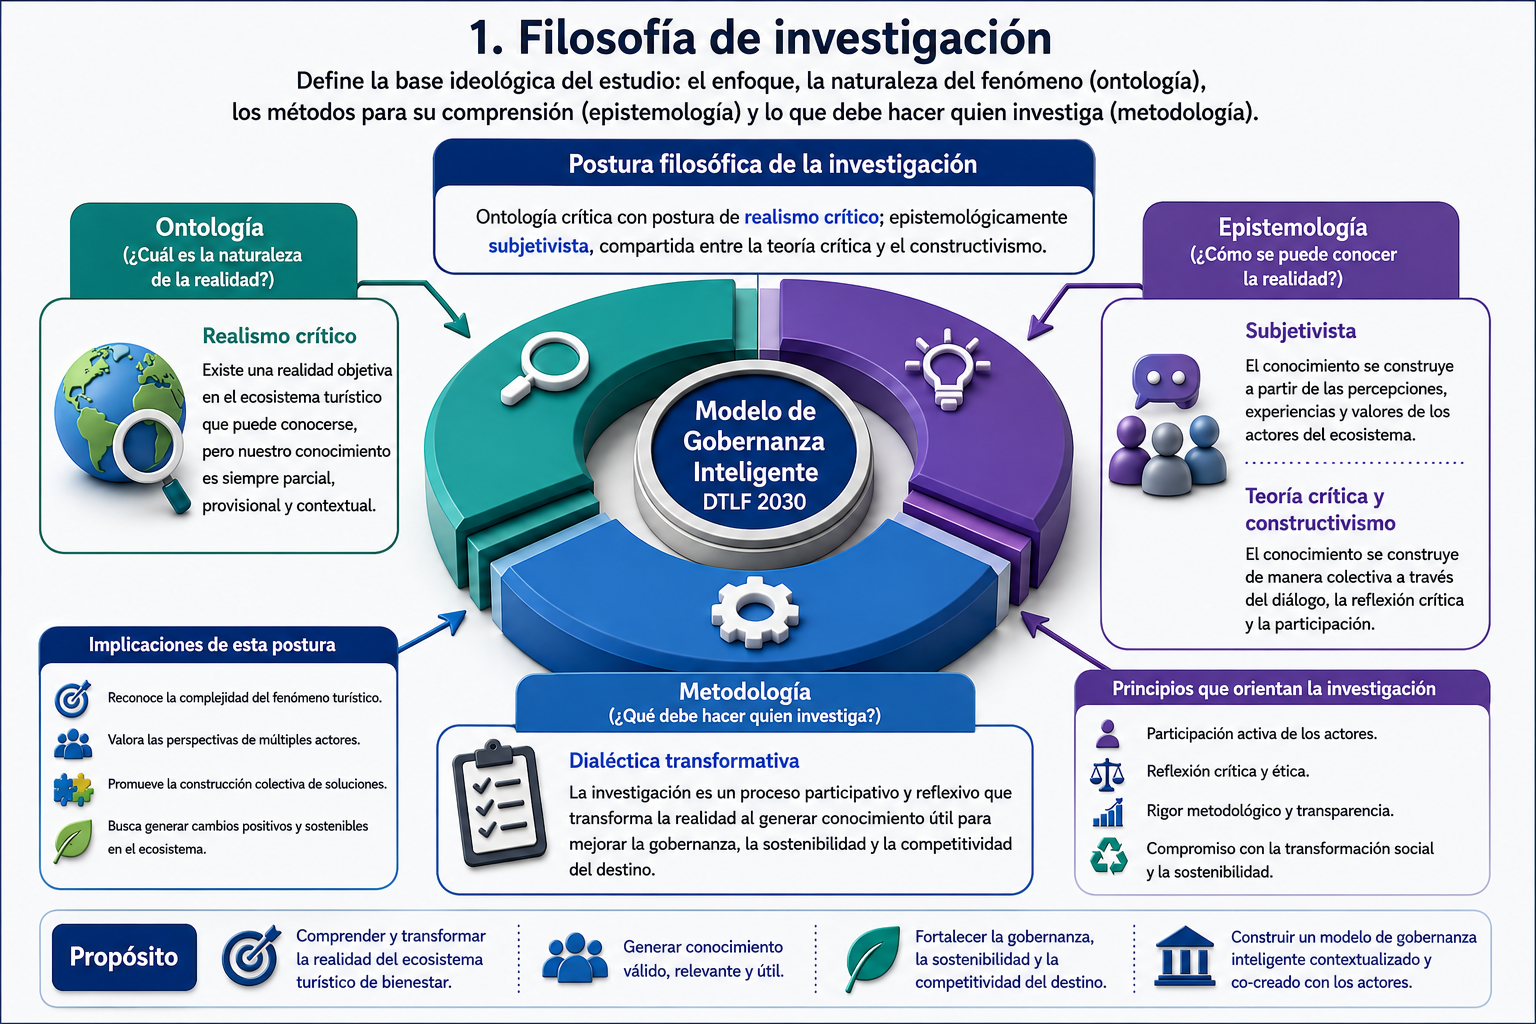
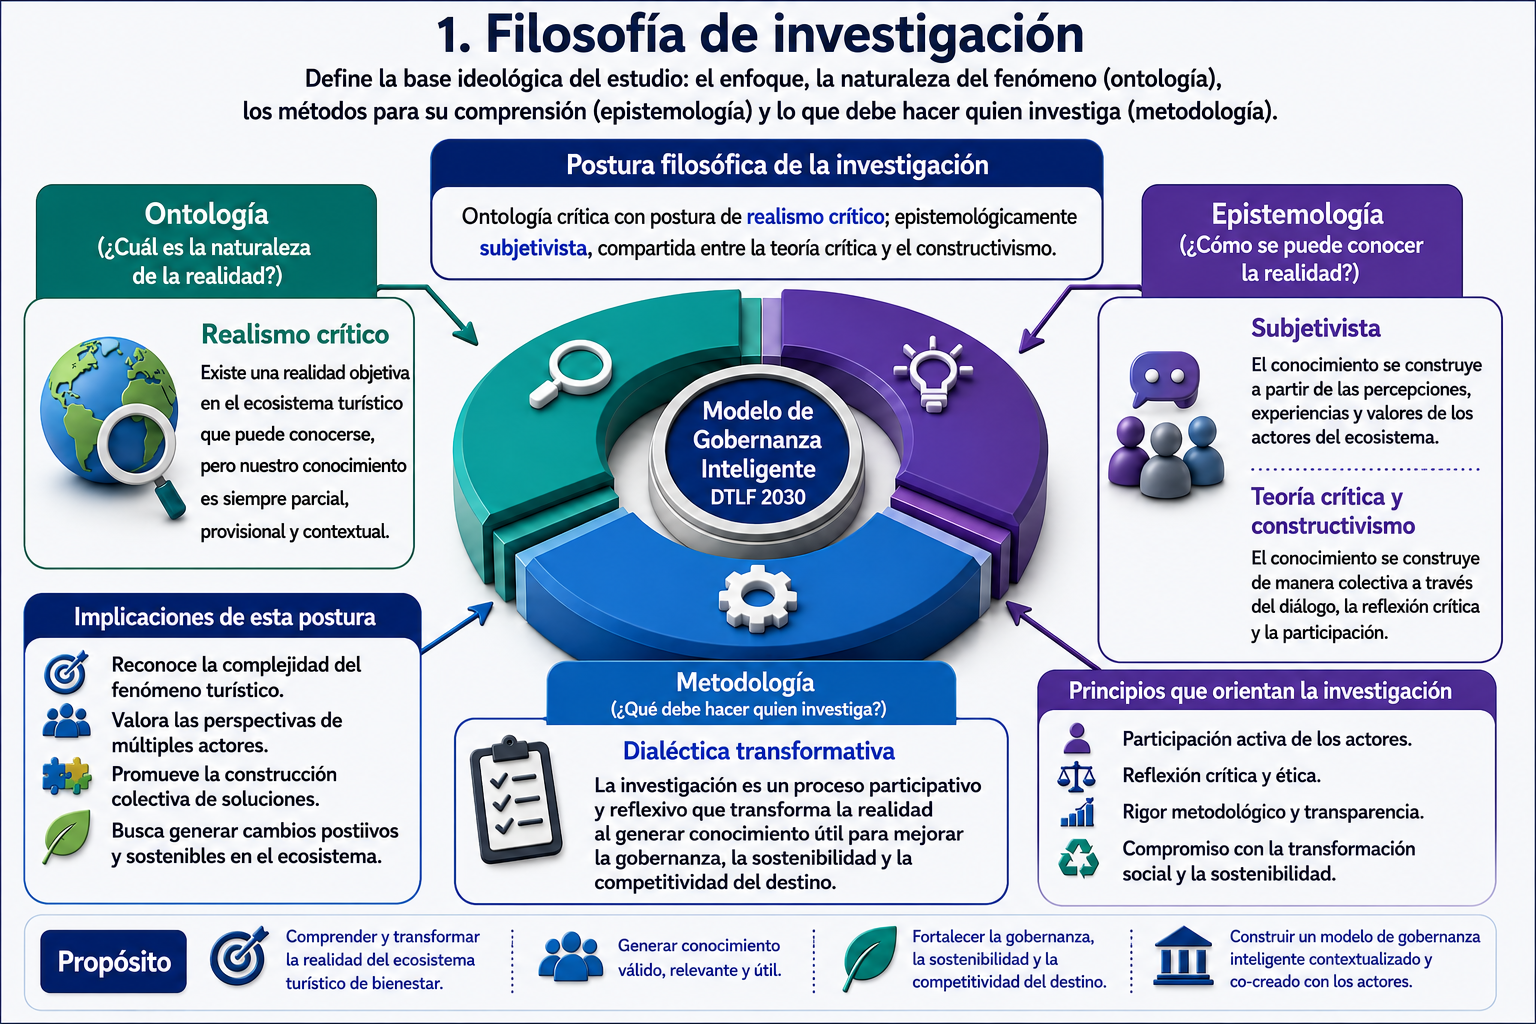
feat: update filosofia image and fix overlay flash on slide nav

diff --git a/pitch.html b/pitch.html
@@ -1197,6 +1197,8 @@ function go(i){
   i = Math.max(0, Math.min(slides.length-1, i));
   document.querySelectorAll('.preg-overlay.open, .mt-table-overlay.open').forEach(o=>o.classList.remove('open'));
   document.querySelectorAll('.photo-frame.marker-open').forEach(f=>f.classList.remove('marker-open'));
+  const mmImg = document.getElementById('mmImgOverlayImg');
+  if(mmImg) mmImg.style.visibility = 'hidden';
   if(window.__closeImgLightbox && document.getElementById('imgLightbox').classList.contains('active')) window.__closeImgLightbox();
   slides[current].classList.remove('active');
   slides[current].classList.toggle('prev', i>current);
@@ -1888,12 +1890,20 @@ function openMmImgOverlay(src){
   const overlay = document.getElementById('mmImgOverlay');
   const img = document.getElementById('mmImgOverlayImg');
   if(!overlay || !img) return;
+  if(img.src.endsWith(src)){
+    overlay.classList.add('open');
+    return;
+  }
+  img.style.visibility = 'hidden';
+  img.onload = function(){ img.style.visibility = 'visible'; };
   img.src = src;
   overlay.classList.add('open');
 }
 function closeMmImgOverlay(){
   const overlay = document.getElementById('mmImgOverlay');
   if(overlay) overlay.classList.remove('open');
+  const img = document.getElementById('mmImgOverlayImg');
+  if(img) img.style.visibility = 'hidden';
 }
 function openMarcoMetoMarker(i){
   if(i===2){
